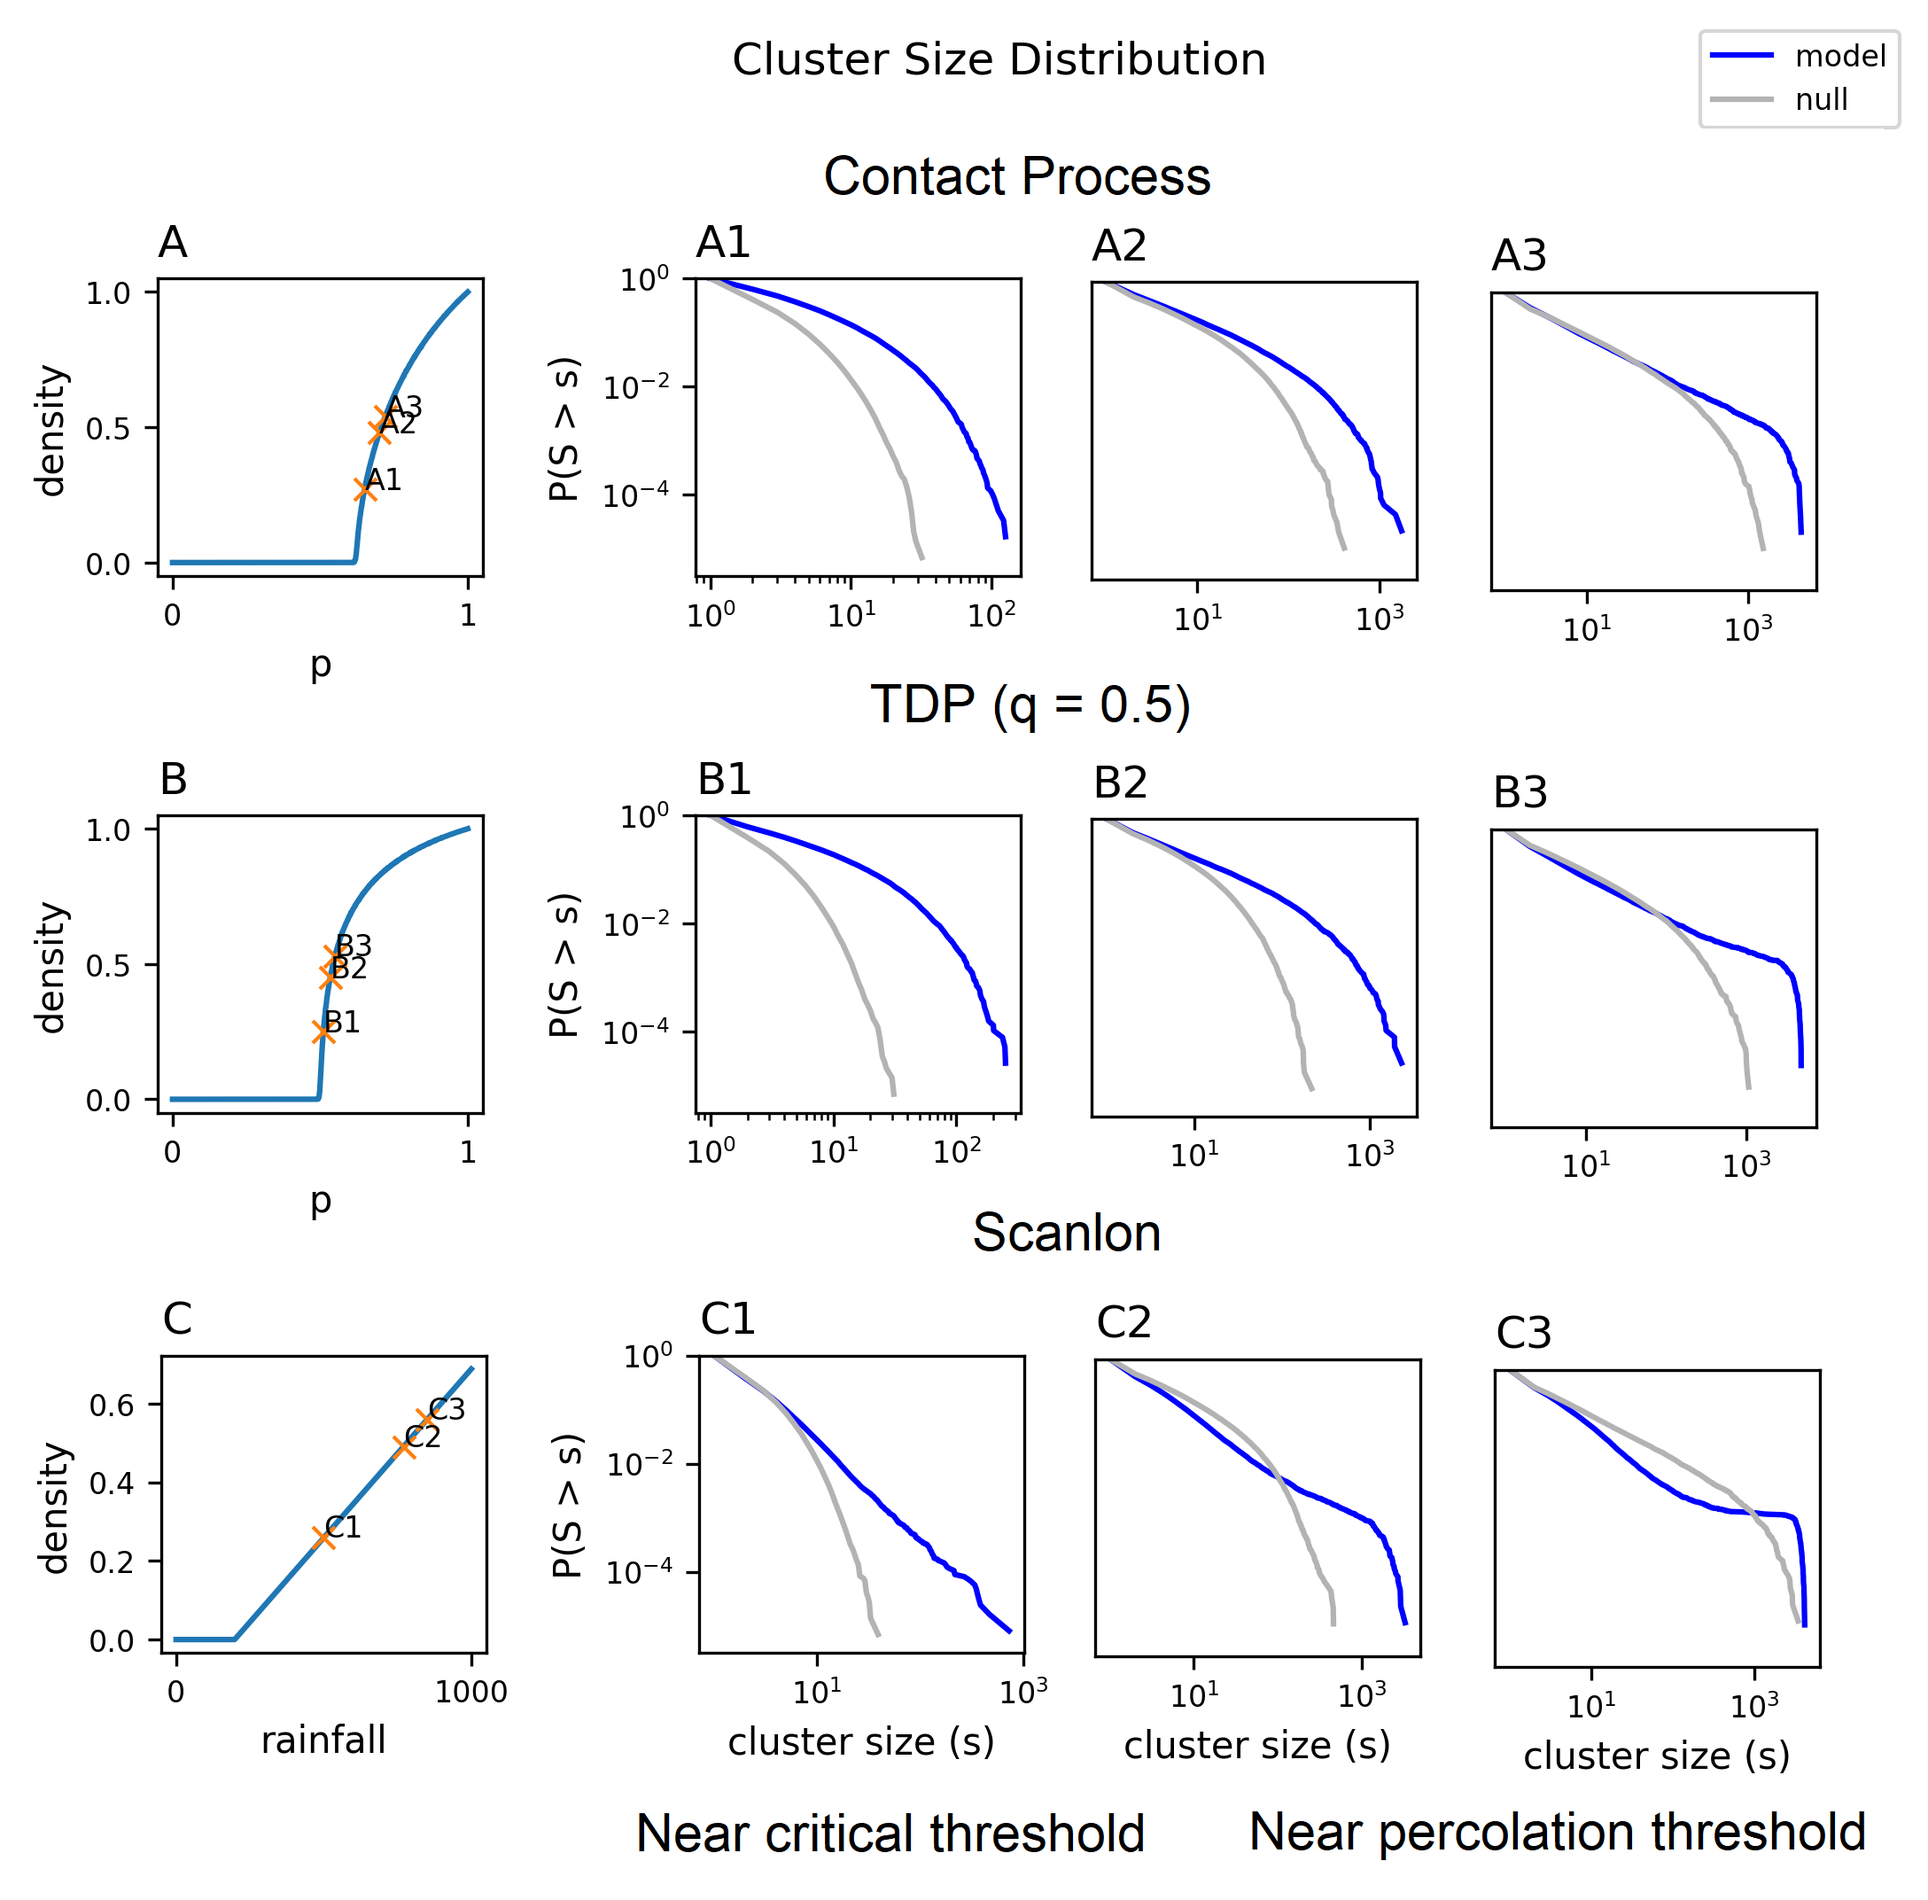
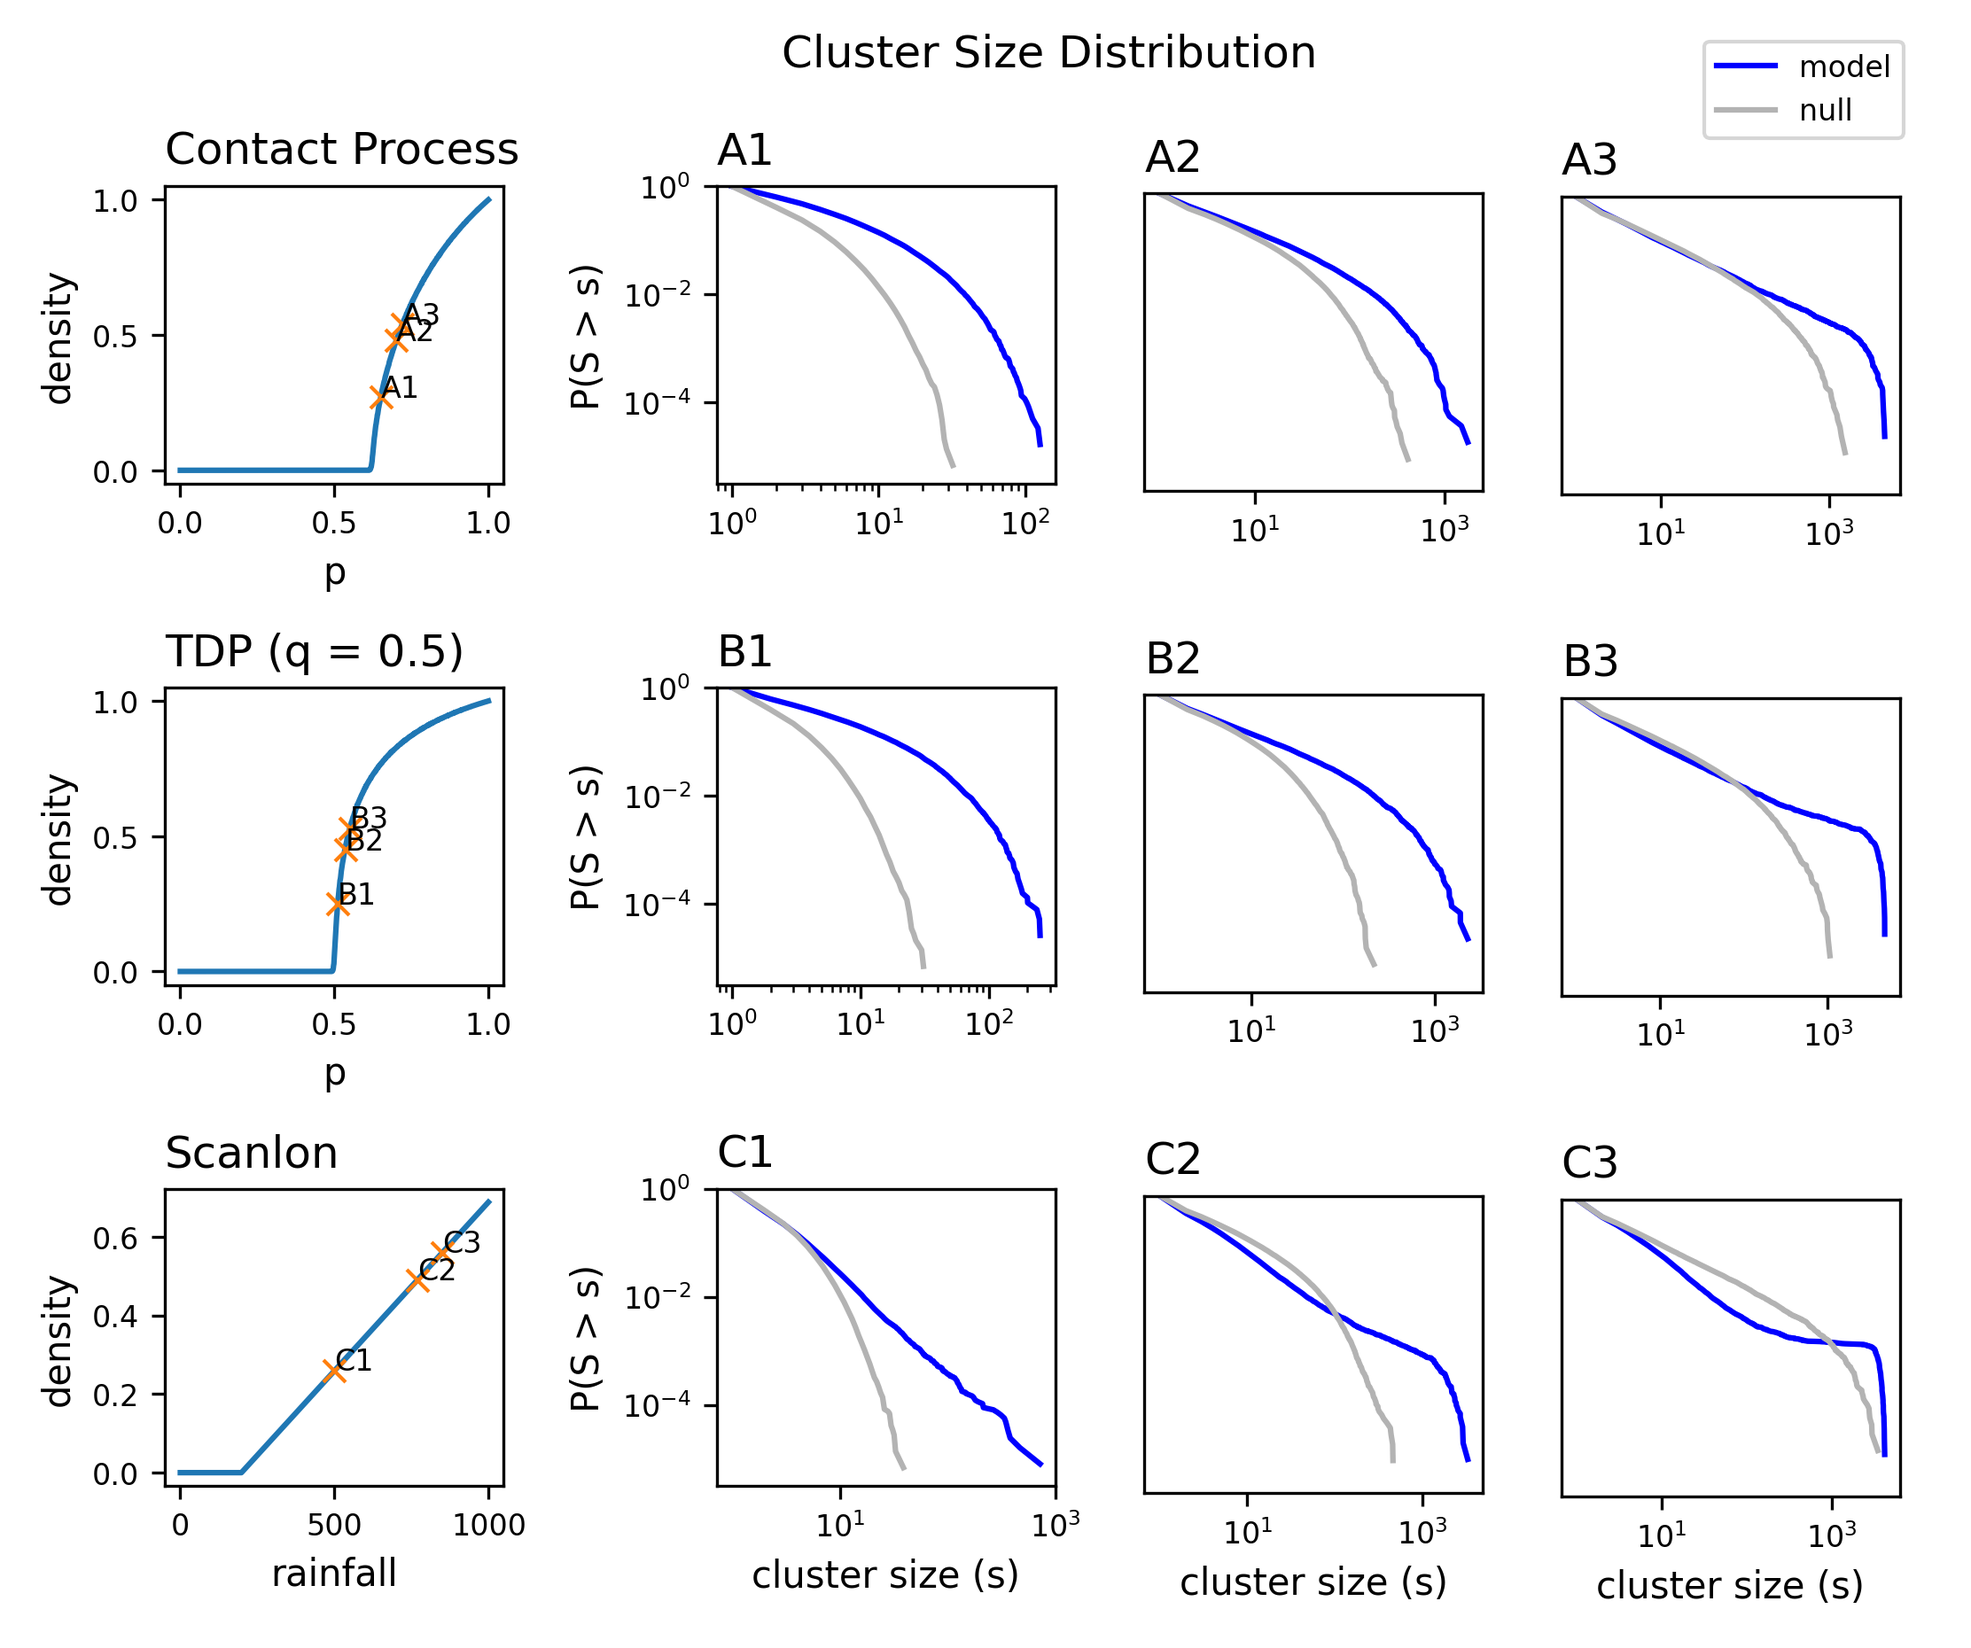
Init repo for sim on 41

diff --git a/plotters/fig2.py b/plotters/fig2.py
@@ -128,10 +128,10 @@ if __name__ == '__main__':
                 plt.xlabel("change in cluster size ($\Delta$s)", fontsize=label_size)
             if j == 0:
                 plt.ylabel("P ($\Delta$S > $\Delta$s)", fontsize=label_size)
-            if j == num_cols - 1:
-                plt.ylabel(model_name, fontsize=label_size, rotation=270, labelpad=15)
-                ax = plt.gca()
-                ax.yaxis.set_label_position("right")
+            # if j == num_cols - 1:
+            #     plt.ylabel(model_name, fontsize=label_size, rotation=270, labelpad=15)
+            #     ax = plt.gca()
+            #     ax.yaxis.set_label_position("right")
 
             if row == 0 and j == 0:
                 plt.loglog(cluster_sizes, inverse_cdf, "b-", label=f"model")
@@ -161,5 +161,5 @@ if __name__ == '__main__':
             plt.tight_layout()
 
     plt.figlegend(loc="upper right", fontsize=legend_size, bbox_to_anchor=(0.99, 0.99))
-    plt.savefig("fig2_raw.png", dpi=300)
+    plt.savefig("fig2.png", dpi=300)
     plt.show()

diff --git a/plotters/fig3.py b/plotters/fig3.py
@@ -119,10 +119,10 @@ if __name__ == '__main__':
             elif j == 2:
                 plt.xlim([0, 5000])
 
-            if j == num_cols - 1:
-                plt.ylabel(model_name, fontsize=label_size, rotation=270, labelpad=15)
-                ax = plt.gca()
-                ax.yaxis.set_label_position("right")
+            # if j == num_cols - 1:
+            #     plt.ylabel(model_name, fontsize=label_size, rotation=270, labelpad=15)
+            #     ax = plt.gca()
+            #     ax.yaxis.set_label_position("right")
 
             if row != num_rows - 1:
                 plt.xticks([])
@@ -141,5 +141,5 @@ if __name__ == '__main__':
             plt.tight_layout()
 
     plt.figlegend(loc="upper right", fontsize=legend_size, bbox_to_anchor=(0.99, 0.99))
-    plt.savefig("fig3_raw.png", dpi=300)
+    plt.savefig("fig3.png", dpi=300)
     plt.show()

diff --git a/plotters/fig4.py b/plotters/fig4.py
@@ -120,10 +120,10 @@ if __name__ == '__main__':
             if j == 2:
                 plt.xlim([0, 5000])
 
-            if j == num_cols - 1:
-                plt.ylabel(model_name, fontsize=label_size, rotation=270, labelpad=15)
-                ax = plt.gca()
-                ax.yaxis.set_label_position("right")
+            # if j == num_cols - 1:
+            #     plt.ylabel(model_name, fontsize=label_size, rotation=270, labelpad=15)
+            #     ax = plt.gca()
+            #     ax.yaxis.set_label_position("right")
 
             if row != num_rows - 1:
                 plt.xticks([])
@@ -131,5 +131,5 @@ if __name__ == '__main__':
             plt.tight_layout()
 
     plt.figlegend(loc="upper right", fontsize=legend_size, bbox_to_anchor=(0.99, 0.99))
-    plt.savefig("fig4_raw.png", dpi=300)
+    plt.savefig("fig4.png", dpi=300)
     plt.show()

diff --git a/plotters/fig1.py b/plotters/fig1.py
@@ -115,7 +115,7 @@ if __name__ == '__main__':
 
         plt.subplot(len(models), 1 + len(model_params[0]), row * num_cols + col)
 
-        plt.title(chr(65 + row), fontsize=title_size, loc="left")
+        plt.title(model_name, fontsize=title_size, loc="left")
         
         plt.xlabel(model_variable, fontsize=label_size)
         plt.ylabel("density", fontsize=label_size)
